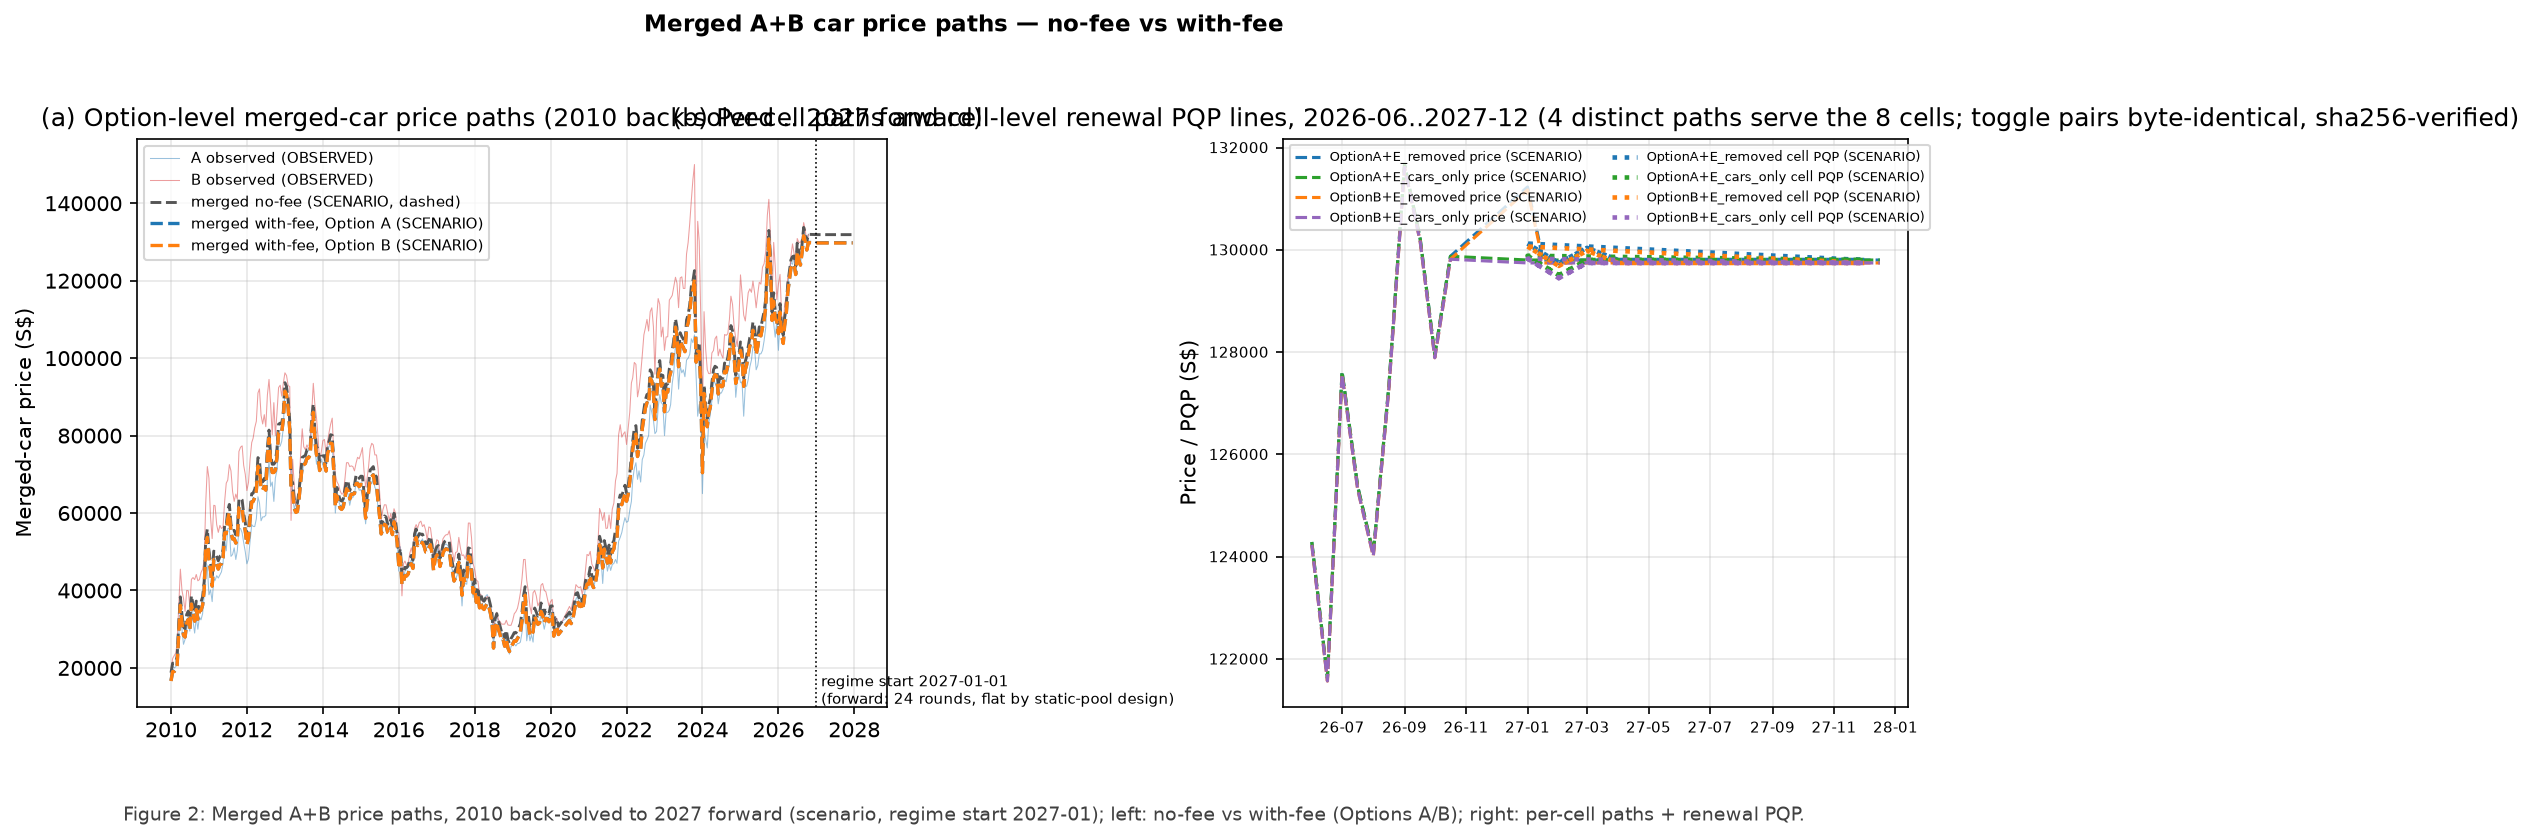
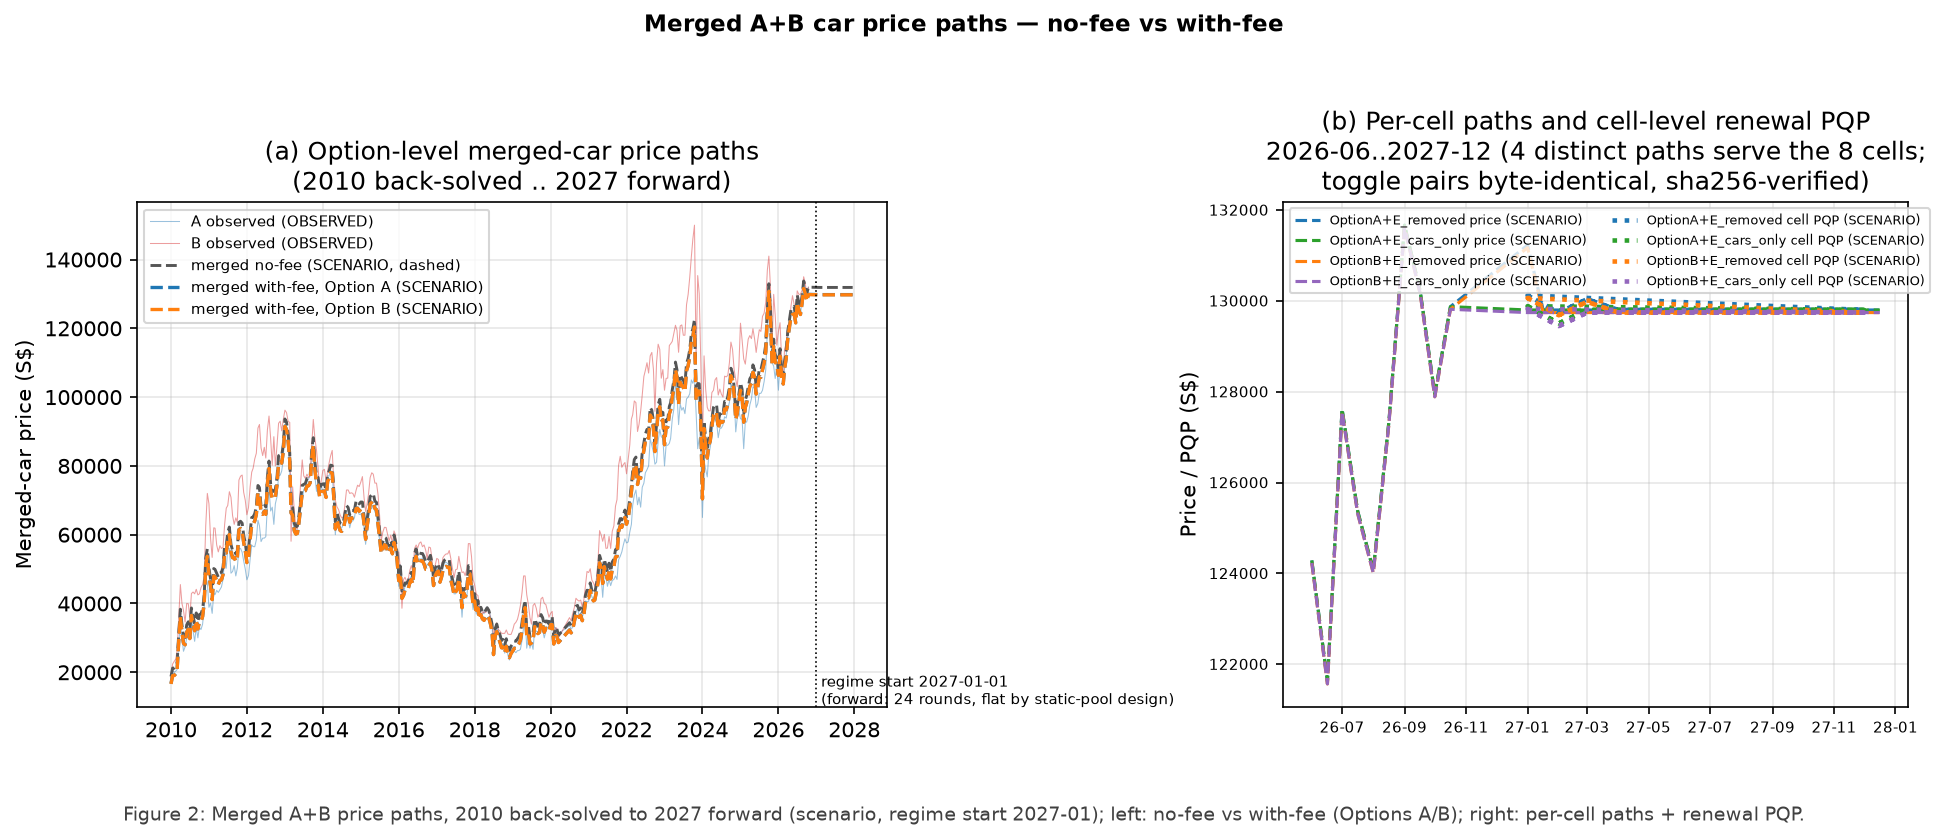
Charts: fix garbled panel titles (Figures 2/3/5/7/8) — long single-line titles overran side-by-side panels and interleaved; wrap titles to fit their panels and add mkfig layout checks (panel-title mutual overlap + canvas bounds) so regressions warn instead of shipping

diff --git a/src/make_charts.py b/src/make_charts.py
@@ -69,7 +69,12 @@ def mkfig(name, caption, fig, title=None):
       - caption horizontally centered on the FIGURE (not the axes);
       - caption width < figure width minus a 40px margin (one line);
       - caption does not overlap any axes bbox or any x-axis label;
-      - title (if any) does not overlap panel titles or y-axis labels.
+      - title (if any) does not overlap panel titles or y-axis labels;
+      - panel titles do not overlap each other (side-by-side panels
+        with long titles used to interleave into one unreadable line);
+      - every panel title fits inside the figure canvas (a title wider
+        than its panel used to spill past the canvas edge and force
+        bbox_inches='tight' to stretch the saved image).
     Problems are printed as WARNING lines next to the 'wrote' line."""
     path = os.path.join(CH, name)
     if title:
@@ -102,6 +107,20 @@ def mkfig(name, caption, fig, title=None):
                 if child.get_visible() and child.get_text():
                     if st.overlaps(child.get_window_extent(renderer)):
                         problems.append(f"title overlaps {child.get_text()[:30]!r}")
+    # panel titles vs each other, and vs the figure canvas
+    title_exts = []
+    for ax in fig.axes:
+        t = ax.title
+        if t.get_visible() and t.get_text():
+            title_exts.append((t.get_window_extent(renderer), t.get_text()[:30]))
+    for i in range(len(title_exts)):
+        for j in range(i + 1, len(title_exts)):
+            if title_exts[i][0].overlaps(title_exts[j][0]):
+                problems.append(
+                    f"panel titles overlap: {title_exts[i][1]!r} vs {title_exts[j][1]!r}")
+    for ext, txt in title_exts:
+        if ext.x0 < -2 or ext.x1 > W + 2:
+            problems.append(f"panel title exceeds canvas width: {txt!r}")
     if problems:
         print(f"WARNING {name}: layout problems: {problems}")
     fig.savefig(path, dpi=150, bbox_inches="tight")
@@ -176,7 +195,7 @@ def fig2():
     ax1.plot([t for t, _ in wB], [v for _, v in wB], "--", color="#ff7f0e", lw=1.6, label="merged with-fee, Option B (SCENARIO)")
     ax1.axvline(dt.datetime(2027, 1, 1), color="k", lw=0.8, ls=":")
     ax1.text(dt.datetime(2027, 2, 15), ax1.get_ylim()[0] + 800, "regime start 2027-01-01\n(forward: 24 rounds, flat by static-pool design)", fontsize=7)
-    ax1.set_title("(a) Option-level merged-car price paths (2010 back-solved .. 2027 forward)")
+    ax1.set_title("(a) Option-level merged-car price paths\n(2010 back-solved .. 2027 forward)")
     ax1.set_ylabel("Merged-car price (S$)")
     ax1.xaxis.set_major_formatter(mdates.DateFormatter("%Y"))
     ax1.grid(alpha=0.3)
@@ -207,8 +226,9 @@ def fig2():
         pqpc[c] = pts
         ax2.plot([t for t, _ in pts], [v for _, v in pts], ":", color=cols[c], lw=2.2,
                  label=f"{c} cell PQP (SCENARIO)")
-    ax2.set_title("(b) Per-cell paths and cell-level renewal PQP lines, 2026-06..2027-12 "
-                  "(4 distinct paths serve the 8 cells; toggle pairs byte-identical, sha256-verified)")
+    ax2.set_title("(b) Per-cell paths and cell-level renewal PQP\n"
+                  "2026-06..2027-12 (4 distinct paths serve the 8 cells;\n"
+                  "toggle pairs byte-identical, sha256-verified)")
     ax2.set_ylabel("Price / PQP (S$)")
     ax2.xaxis.set_major_formatter(mdates.DateFormatter("%y-%m"))
     ax2.tick_params(labelsize=7)
@@ -241,7 +261,7 @@ def fig3():
     ax1.text(0.02, 0.9, "band 1 (0-35th): −15,000 | share 35.16%\nband 2 (35-50th): 0 | share 15.74%\nband 3 (>50th): +15,000 | share 49.10%",
              transform=ax1.transAxes, fontsize=8, va="top",
              bbox=dict(boxstyle="round", fc="white", alpha=0.85))
-    ax1.set_title("(a) Option A — 3 bands at 35th/50th OMV percentiles (PROPOSED percentiles, COMPUTED cut points)")
+    ax1.set_title("(a) Option A — 3 bands at 35th/50th OMV percentiles\n(PROPOSED percentiles, COMPUTED cut points)")
     ax1.set_ylabel("Registration mix weight (Jan-May 2025)")
     ax1.grid(alpha=0.3, axis="y")
     ax2.hist(omvB, bins=edges, weights=wB, color="#c5b0d5", edgecolor="white", lw=0.3)
@@ -254,7 +274,7 @@ def fig3():
     ax2.text(0.02, 0.9, "band shares: 10.17 / 24.98 / 15.74 / 24.22 / 24.88%\nquantums: −15,000 / −7,500 / 0 / +7,500 / +15,000",
              transform=ax2.transAxes, fontsize=8, va="top",
              bbox=dict(boxstyle="round", fc="white", alpha=0.85))
-    ax2.set_title("(b) Option B — 5 bands at 10th/35th/50th/75th OMV percentiles (PROPOSED percentiles, COMPUTED cut points)")
+    ax2.set_title("(b) Option B — 5 bands at 10th/35th/50th/75th OMV percentiles\n(PROPOSED percentiles, COMPUTED cut points)")
     ax2.set_ylabel("Registration mix weight (Jan-May 2025)")
     ax2.set_xlabel("Model OMV (S$, Car Cost Aug 2026 catalog)")
     ax2.grid(alpha=0.3, axis="y")
@@ -317,7 +337,7 @@ def fig5():
         ax2p.tick_params(labelsize=7)
         tot = f([r for r in sub if r[ixd["dimension"]] == "TOTAL"][0][ixd["delta_bids_per_year"]])
         ev = f([r for r in sub if r[ixd["dimension"]] == "fuel" and r[ixd["value"]] == "EV"][0][ixd["delta_bids_per_year"]])
-        ax.set_title(f"({lab}) {opt}: total {tot:,.0f} bids/yr; EV {ev:,.0f} ({ev/tot*100:.1f}% of shift)")
+        ax.set_title(f"({lab}) {opt}: total {tot:,.0f} bids/yr\nEV {ev:,.0f} ({ev/tot*100:.1f}% of shift)")
         ax.set_ylabel("Delta bids/yr by band (SCENARIO)")
         ax.grid(alpha=0.3, axis="y")
     mkfig("demand_shift_by_band.png",
@@ -380,7 +400,7 @@ def fig7():
             if pts:
                 ax.plot([t for t, _ in pts], [v for _, v in pts], linestyle=ls, color=col, lw=1.6, label=f"{lab} — {tag}")
     ax1.axvline(dt.datetime(2027, 1, 1), color="k", lw=0.8, ls=":")
-    ax1.set_title("(a) Forward quotas per round (SCENARIO): C +11.11% under removal (345.74/round vs 311.17), E → 0 under removal (266.67/round cars-only)")
+    ax1.set_title("(a) Forward quotas per round (SCENARIO)\nC +11.11% under removal (345.74 vs 311.17/round);\nE → 0 under removal (266.67/round cars-only)")
     ax1.set_ylabel("Quota per round")
     ax1.xaxis.set_major_formatter(mdates.DateFormatter("%y-%m"))
     ax1.legend(fontsize=7)
@@ -400,7 +420,7 @@ def fig7():
         if Epts:
             ax.plot([t for t, _ in Epts], [v for _, v in Epts], linestyle=colstyle, color="#d62728", lw=1.4, label=f"E, Option A (premium decays to 0 over 6 rounds) — {tag}")
     ax2.axvline(dt.datetime(2027, 1, 1), color="k", lw=0.8, ls=":")
-    ax2.set_title("(b) Forward prices (SCENARIO): C flat at 91,813.5 (NOT DETECTABLE response, conservative bound); E premium 3,777.33 → 0 (cars-only)")
+    ax2.set_title("(b) Forward prices (SCENARIO)\nC flat at 91,813.5 (NOT DETECTABLE response;\nconservative bound); E premium 3,777.33 → 0 (cars-only)")
     ax2.set_ylabel("Price (S$)")
     ax2.xaxis.set_major_formatter(mdates.DateFormatter("%y-%m"))
     ax2.legend(fontsize=6.5)
@@ -433,7 +453,7 @@ def fig8():
             ax.annotate(f"{r[ixd['percentile']]}th zone\nshare {share:.2f}%\n{nmod} models, ~{ann:,.0f} reg/yr\nquantum at stake {qp:,.0f} S$",
                         xy=(mid, ax.get_ylim()[1] * 0.55), fontsize=6.8, ha="center",
                         bbox=dict(boxstyle="round", fc="white", alpha=0.9, ec="gray"))
-        ax.set_title(f"({lab}) {opt} — ±5% OMV boundary zones around each cut point (zone width = documented analytical choice, NOT an LTA parameter)")
+        ax.set_title(f"({lab}) {opt} — ±5% OMV boundary zones around each cut point\n(zone width = documented analytical choice, NOT an LTA parameter)")
         ax.set_ylabel("Registration mix weight (Jan-May 2025)")
         ax.grid(alpha=0.3, axis="y")
     ax2.set_xlabel("Model OMV (S$, Car Cost Aug 2026 catalog)")
